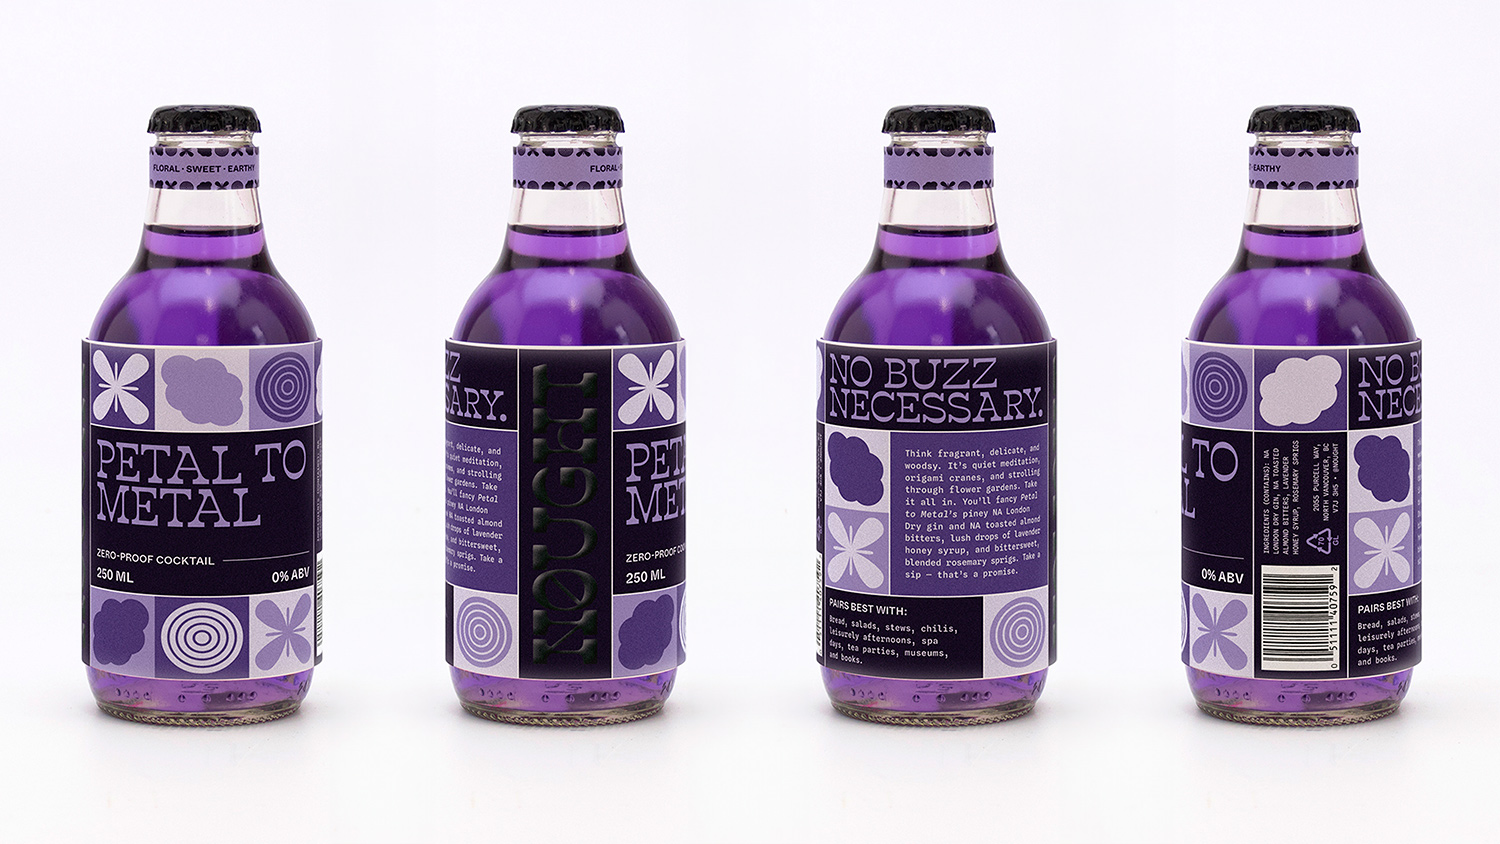
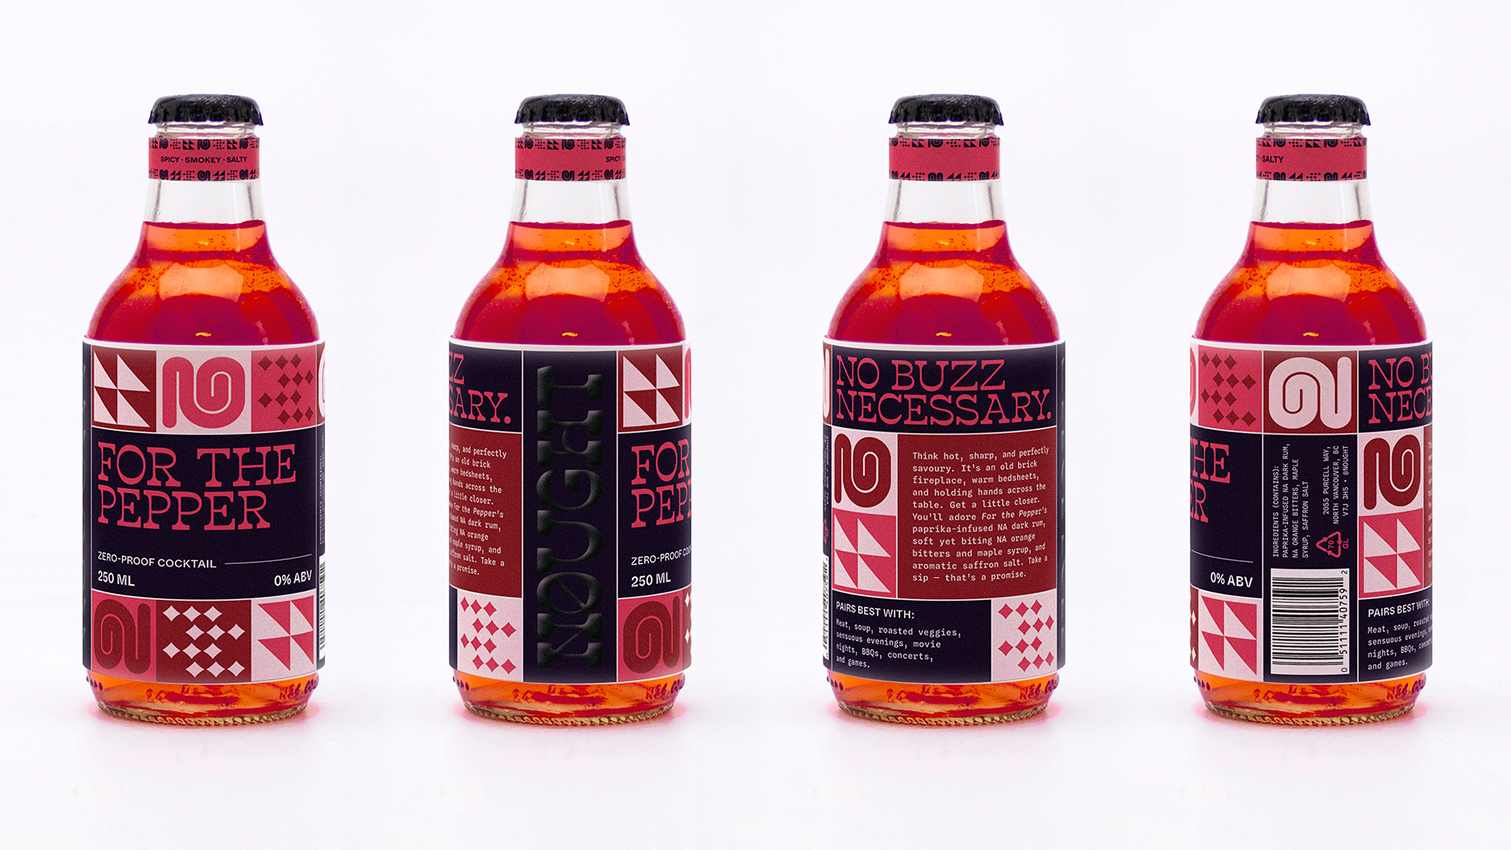
updates

diff --git a/project-1.html b/project-1.html
@@ -47,37 +47,42 @@
         </div>
      </li>
     <li class="project-item-3">
-      <p class="project-text-marginless">Nought is a zero-proof cocktail brand challenging both the beverage industry and our tastebuds with fresh, inventive flavour combinations — and not a drop of alcohol. Who says sober is boring?</p>
+      <p class="project-text-marginless">Nought is a zero-proof cocktail brand challenging the beverage industry and our tastebuds with inventive flavours and not a drop of alcohol. Abstract symbols capture each cocktail’s “visual taste” through pattern.</p>
     <li class="project-item-4">
-      <figure class="project-page-image">
+      <figure class="project-page-image project-margin">
         <img
           src="assets/project-1/lily-rosen--idea-grad-2025--nought-zero-proof-cocktails--mocktail-non-alcoholic-sober-beverage--packaging-design--rgd-honourable-mention--capilano-university-idea-school-of-design-1.jpg"
-          alt="Three bottles lined up in a row with colourful packaging. From left to right, the flavours are For the Pepper, Partner in Lime, and Petal to Metal."
+          alt="A condensed Nought brand guide. Includes the logo, icon, tone, typography, brand assets (all eleven flavour symbols with labels), and colours."
         />
       </figure>
-    </li>
-    <li class="project-item-5">
-      <h3 class="project-subheading-2">Kinda like eye candy.</h3>
-      <p class="project-text">Nought’s packaging strives to stand out on shelves with eye-catching colours, dramatic typography, and a focus on visual taste. Each bottle features a unique “palate pattern” that conceptualizes flavour through abstract symbols any curious customer can decode.</p>
-      <p class="project-text-marginless">From smokey to sour to sweet, Nought celebrates diverse palates with diverse pairings, creating the perfect accompaniment for any occasion.</p>
-    </li>
-    <li class="project-item-6">
       <figure class="project-page-image project-margin">
         <img
           src="assets/project-1/lily-rosen--idea-grad-2025--nought-zero-proof-cocktails--mocktail-non-alcoholic-sober-beverage--packaging-design--rgd-honourable-mention--capilano-university-idea-school-of-design-2.jpg"
-          alt="Partner in Lime in rotation, with four bottles side-by-side to show all angles of the label."
+          alt="Three bottles lined up in a row with colourful packaging. From left to right, the flavours are For the Pepper (red), Partner in Lime (green), and Petal to Metal (purple)."
         />
       </figure>
       <figure class="project-page-image project-margin">
         <img
           src="assets/project-1/lily-rosen--idea-grad-2025--nought-zero-proof-cocktails--mocktail-non-alcoholic-sober-beverage--packaging-design--rgd-honourable-mention--capilano-university-idea-school-of-design-3.jpg"
-          alt="For the Pepper in rotation, with four bottles side-by-side to show all angles of the label."
+          alt="Three advertisements for Nought beverages against a leafy background. The headlines are 1. 'Missing out on the party? Nought a chance.' 2. 'Weekends looking grim? All is nought lost.' and 3. 'Getting flirty? Liquid courage is nought required.'"
+        />
+      </figure>
+      <figure class="project-page-image project-margin">
+        <img
+          src="assets/project-1/lily-rosen--idea-grad-2025--nought-zero-proof-cocktails--mocktail-non-alcoholic-sober-beverage--packaging-design--rgd-honourable-mention--capilano-university-idea-school-of-design-4.jpg"
+          alt="For the Pepper, a red beverage in a glass bottle, in rotation. It shows four bottles side-by-side to show all angles of the label."
+        />
+      </figure>
+      <figure class="project-page-image project-margin">
+        <img
+          src="assets/project-1/lily-rosen--idea-grad-2025--nought-zero-proof-cocktails--mocktail-non-alcoholic-sober-beverage--packaging-design--rgd-honourable-mention--capilano-university-idea-school-of-design-5.jpg"
+          alt="Partner in Lime, a creamy beverage in a glass bottle, in rotation. It shows four bottles side-by-side to show all angles of the label."
         />
       </figure>
       <figure class="project-page-image">
         <img
-          src="assets/project-1/lily-rosen--idea-grad-2025--nought-zero-proof-cocktails--mocktail-non-alcoholic-sober-beverage--packaging-design--rgd-honourable-mention--capilano-university-idea-school-of-design-4.jpg"
-          alt="Petal to Metal in rotation, with four bottles side-by-side to show all angles of the label."
+          src="assets/project-1/lily-rosen--idea-grad-2025--nought-zero-proof-cocktails--mocktail-non-alcoholic-sober-beverage--packaging-design--rgd-honourable-mention--capilano-university-idea-school-of-design-6.jpg"
+          alt="Petal to Metal, a purple beverage in a glass bottle, in rotation. It shows four bottles side-by-side to show all angles of the label."
         />
       </figure>
     </li>

diff --git a/index.html b/index.html
@@ -80,8 +80,8 @@
               </div>
               <figure class="work-page-image">
                 <img
-                  src="assets/project-1/lily-rosen--idea-grad-2025--nought-zero-proof-cocktails--mocktail-non-alcoholic-sober-beverage--packaging-design--rgd-honourable-mention--capilano-university-idea-school-of-design-1.jpg"
-                  alt="Three bottles lined up in a row with colourful packaging. From left to right, the flavours are For the Pepper, Partner in Lime, and Petal to Metal."
+                  src="assets/project-1/lily-rosen--idea-grad-2025--nought-zero-proof-cocktails--mocktail-non-alcoholic-sober-beverage--packaging-design--rgd-honourable-mention--capilano-university-idea-school-of-design-cover.jpg"
+                  alt="The Nought logo in neon green on a black background. This will eventually be a gif showing the logo and project images."
                 />
               </figure>
               <ul class="project-categories-list">

diff --git a/styles/style.css b/styles/style.css
@@ -797,7 +797,7 @@ a.about-subheading-2 {
 .project-page-image img {
   border-radius: 1rem;
   width: 100%;
-  max-height: 930px;
+  max-height: 850px;
 }
 
 .project-margin {
@@ -1101,15 +1101,13 @@ a.about-subheading-2 {
     grid-column: 1 / 2; /* Start in the first column */
   }
   
-  .project-item-3,
-  .project-item-5 {
+  .project-item-3 {
     grid-column: 2 / 3; /* Start in the second column next to item 2 */
     padding: 1rem 0 1rem 2rem;
     border-left: 2px solid #94c734;
   }
   
-  .project-item-4,
-  .project-item-6 {
+  .project-item-4 {
     grid-column: 1 / -1; /* Full-width for stacked layout */
   }
 
@@ -1195,8 +1193,7 @@ a.about-subheading-2 {
     grid-gap: 4rem;
   }
 
-  .project-item-3,
-  .project-item-5 {
+  .project-item-3 {
     padding: 1rem 0 1rem 4rem;
   }
 
